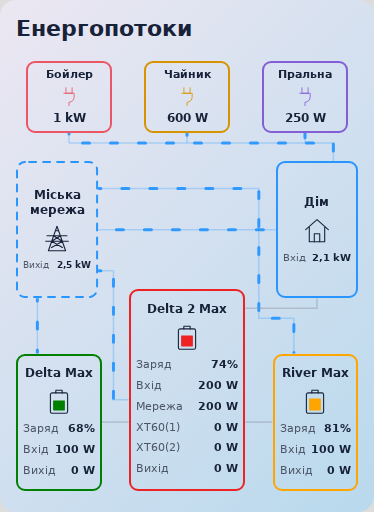
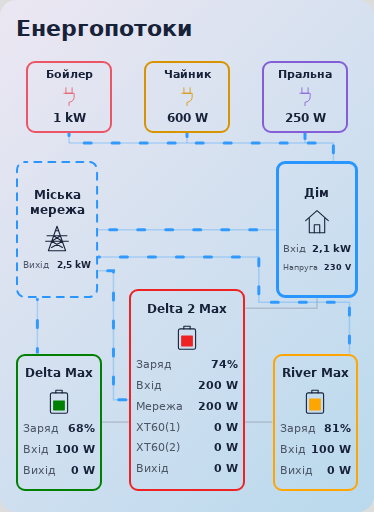
Release 2.0.1: fix charging route and add home voltage
Route station #3 grid charging clear of the home feeder. Use a stationary 3 px Home outline with preserved text space. Add the optional Home voltage selector and a V reading below Input. Verified model, browser and consumer tests at 320–1150 px.

diff --git a/suris-ecoflow-flow-card.js b/suris-ecoflow-flow-card.js
@@ -1,8 +1,8 @@
-/* Suris EcoFlow Flow Card v2.0.0 | MIT | No external dependencies. */
+/* Suris EcoFlow Flow Card v2.0.1 | MIT | No external dependencies. */
 (() => {
   'use strict';
   const TAG = 'suris-ecoflow-flow-card';
-  const VERSION = '2.0.0';
+  const VERSION = '2.0.1';
   const NS = 'http://www.w3.org/2000/svg';
   let cardSequence = 0;
   const DEFAULTS = {
@@ -19,6 +19,8 @@
   };
   Object.assign(TEXT.uk, { consumers: 'Індивідуальні споживачі', consumer: 'Споживач', addConsumer: 'Додати споживача', removeConsumer: 'Видалити', consumerPower: 'Датчик потужності (W / kW)', consumerIcon: 'Іконка', consumerColor: 'Колір рамки споживача', consumerHint: 'Додай до 20 приладів. Зверху видно до шести активних із найбільшою потужністю. Поріг активності береться з налаштувань потоків. Потрібен датчик потужності, а не енергії kWh. Колір застосовується до рамки приладу. Спільні лінії рядів мають колір дому. Спочатку заповнюється нижній ряд. Без одного чи обох рядів висота автоматично зменшується.' });
   Object.assign(TEXT.en, { consumers: 'Individual consumers', consumer: 'Consumer', addConsumer: 'Add consumer', removeConsumer: 'Remove', consumerPower: 'Power sensor (W / kW)', consumerIcon: 'Icon', consumerColor: 'Consumer border color', consumerHint: 'Add up to 20 devices. The six active devices with the highest power appear at the top. Activity uses the flow threshold. Select power sensors, not kWh energy sensors. Each device color applies to its border. Shared row lines use the home color. The lower row fills first. Height shrinks automatically when one or both rows are unused.' });
+  Object.assign(TEXT.uk, { voltage: 'Напруга' });
+  Object.assign(TEXT.en, { voltage: 'Voltage' });
   const t = (config) => TEXT[config?.language] || TEXT.uk;
   const draftConfig = (config = {}) => {
     const result = { ...DEFAULTS, ...config };
@@ -136,7 +138,7 @@
       grid_home: gridAvailable && source === 'grid' && positive(homePower),
       main_home: source === 'main' && positive(homePower)
     };
-    return { main, auxiliary_1, auxiliary_2, grid: { output: p(c.grid.power) }, home: { power: homePower, source, power_origin: powerOrigin }, consumers: (c.consumers || []).map(consumer => ({ ...consumer, entity: consumer.power, power: p(consumer.power) })), flows, flow_power };
+    return { main, auxiliary_1, auxiliary_2, grid: { output: p(c.grid.power) }, home: { power: homePower, voltage: readNumber(states, c.home.voltage), source, power_origin: powerOrigin }, consumers: (c.consumers || []).map(consumer => ({ ...consumer, entity: consumer.power, power: p(consumer.power) })), flows, flow_power };
   };
   // Equal wattage has equal visual speed, regardless of a route's length.
   const flowSpeed = (watts, duration) => Number.isFinite(watts) && watts > 0
@@ -163,6 +165,8 @@
     .grid{left:0;top:37%;width:22%}.home{right:0;top:37%;width:22%}.auxiliary_1{left:0;bottom:1%;width:25%}.auxiliary_2{right:0;bottom:1%;width:25%}.main{left:36%;bottom:1%;width:28%;min-height:max(220px,28cqw)}
     .status{margin-top:8px;color:var(--secondary-text-color,#aaa);font-size:12px;min-height:16px;text-align:center}.status:empty{display:none}
     @container(max-width:520px){.diagram{height:540px}.node{padding:8px 5px;gap:6px;border-radius:9px;min-height:137px}.node h3{font-size:12px}.node .icon{height:29px;margin:0}.row{font-size:11px;gap:2px}.row .value{margin-left:auto}.grid,.home{width:24%;top:38%}.auxiliary_1{left:0;width:25%;bottom:1%}.auxiliary_2{right:0;width:25%;bottom:1%}.main{left:33%;width:34%;min-height:202px}}
+    .node.home{border-width:3px;padding-inline:9px}.row[hidden]{display:none}
+    @container(max-width:520px){.node.home{padding-inline:4px}}
     .node.consumer{height:72px;min-height:72px;padding:4px;gap:3px;border-radius:9px}.consumer h3{font-size:clamp(11px,1.5cqw,13px);line-height:1.2;white-space:nowrap;overflow:hidden;text-overflow:ellipsis;overflow-wrap:normal}.consumer .icon{height:22px;margin:0;color:var(--node-color)}.consumer ha-icon{--mdc-icon-size:22px;width:22px;height:22px}.consumer ha-icon:not(:defined){display:none}.consumer ha-icon:defined+.fallback{display:none}.consumer .fallback{height:22px}.consumer .fallback svg{width:22px}.consumer .value{width:100%;text-align:center;font-size:12px;line-height:16px}.consumer:focus-within{outline:1px solid var(--node-color);outline-offset:2px}
     @media(prefers-reduced-motion:reduce){.flow .flow-dashes{display:none}.flow.active .flow-track{stroke-width:3;opacity:.92}}
   `;
@@ -237,7 +241,10 @@
           border._animation.pause(); this._borders[key] = border;
         }
         if (key === 'grid') this._row(node, 'output', text.output);
-        else if (key === 'home') this._row(node, 'power', text.input);
+        else if (key === 'home') {
+          this._row(node, 'power', text.input); this._row(node, 'voltage', text.voltage);
+          this._values['home.voltage'].parentElement.hidden = !c.home.voltage;
+        }
         else {
           this._row(node, 'soc', text.soc); this._row(node, 'input', text.input);
           if (key === 'main') { this._row(node, 'ac', text.ac); this._row(node, 'solar_1', 'XT60(1)'); this._row(node, 'solar_2', 'XT60(2)'); }
@@ -253,6 +260,7 @@
       this.shadowRoot.querySelector('h2').textContent = c.title;
       for (const key of ['grid', 'auxiliary_1', 'auxiliary_2', 'main']) this.style.setProperty(`--flow-${key}`, c.appearance[`${key}_color`]);
       for (const [key, node] of Object.entries(this._nodes)) node.querySelector('h3').textContent = c[key].name || text[key] || key;
+      this._values['home.voltage'].parentElement.hidden = !c.home.voltage;
     }
     _update() {
       if (!this._config || !this._values) return;
@@ -265,11 +273,12 @@
         const [node, field] = key.split('.'); let value = data[node][field];
         let entity = c[node][field === 'soc' ? 'soc' : `${field}_power`];
         if (node === 'grid') entity = c.grid.power;
-        if (node === 'home') entity = c.home.power;
+        if (node === 'home') entity = field === 'voltage' ? c.home.voltage : c.home.power;
         if (node === 'main' && field === 'ac') entity = c.main.ac_input_power;
         if (node === 'main' && field === 'solar_1') entity = c.main.solar_input_power;
         if (node === 'main' && field === 'solar_2') entity = c.main.solar_input_power_2;
         if (field === 'soc') value = value != null && value >= 0 && value <= 100 ? `${formatter.format(value)}%` : '—';
+        else if (field === 'voltage') value = value != null && value >= 0 ? `${formatter.format(value)} V` : '—';
         else value = powerText(value, c.language);
         button.textContent = value;
         if (entity) button.dataset.entity = entity; else delete button.dataset.entity;
@@ -395,10 +404,10 @@
       const rect = (key) => { const r = (key.startsWith('consumer:') ? this._consumerNodes.get(key.slice(9)) : this._nodes[key]).getBoundingClientRect(); return { x: r.left - base.left, y: r.top - base.top, w: r.width, h: r.height, right: r.right - base.left, bottom: r.bottom - base.top }; };
       const g = rect('grid'), a = rect('auxiliary_1'), b = rect('auxiliary_2'), m = rect('main'), h = rect('home');
       const midY = g.y + g.h / 2, rightCorridor = (m.right + b.x) / 2;
-      const homeLane = Math.max(h.bottom + 10, m.y + 12), chargingLane = homeLane + 10;
+      const homeLane = Math.max(h.bottom + 10, m.y + 12), chargingLane = homeLane - 6;
       const routes = {
         grid_auxiliary_1: `M ${a.x + a.w * .25} ${g.bottom} V ${a.y}`,
-        grid_auxiliary_2: `M ${g.right} ${g.y + g.h * .20} H ${rightCorridor} V ${chargingLane} H ${b.x + b.w * .25} V ${b.y}`,
+        grid_auxiliary_2: `M ${g.right} ${g.y + g.h * .70} H ${rightCorridor} V ${chargingLane} H ${b.x + b.w * .90} V ${b.y}`,
         grid_main: `M ${g.right} ${g.y + g.h * .80} H ${(g.right + m.x) / 2} V ${m.y + m.h * .55} H ${m.x}`,
         grid_home: `M ${g.right} ${midY} H ${h.x}`,
         auxiliary_1_main: `M ${a.right} ${a.y + a.h / 2} H ${m.x}`,
@@ -455,6 +464,8 @@
     uk: { title: 'Заголовок', language: 'Мова', name: 'Назва', power: 'Потужність', input_power: 'Загальна вхідна потужність', output_power: 'Загальна вихідна потужність', soc: 'Заряд батареї (%)', ac_input_power: 'Потужність входу від міської мережі (AC)', solar_input_power: 'Потужність входу XT60(1) (DC)', solar_input_power_2: 'Потужність входу XT60(2) (DC)', grid_charge_power: 'Потужність заряджання від мережі (необов’язково)', transfer_power: 'Потужність передачі на головну EcoFlow (необов’язково)', home_feed_power: 'Потужність виходу на дім (необов’язково)', available_entity: 'Наявність міської мережі', available_state: 'Стан «мережа є»', source_entity: 'Сутність джерела живлення дому', grid_state: 'Стан «дім від міської мережі»', main_state: 'Стан «дім від головної EcoFlow»', grid_color: 'Колір мережі: рамка та потоки', auxiliary_1_color: 'Колір EcoFlow №2: рамка та потік', auxiliary_2_color: 'Колір EcoFlow №3: рамка та потік', solar_color: 'Колір передачі між станціями', main_color: 'Колір головної EcoFlow: рамка та потік', threshold: 'Поріг активного потоку (Вт)', duration: 'Базовий час руху (с)' },
     en: { title: 'Title', language: 'Language', name: 'Name', power: 'Power', input_power: 'Total input power', output_power: 'Total output power', soc: 'Battery charge (%)', ac_input_power: 'City grid input power (AC)', solar_input_power: 'XT60(1) input power (DC)', solar_input_power_2: 'XT60(2) input power (DC)', grid_charge_power: 'Grid charging power (optional)', transfer_power: 'Transfer power to main EcoFlow (optional)', home_feed_power: 'Output power to home (optional)', available_entity: 'Grid availability', available_state: 'Grid available state', source_entity: 'Home power source entity', grid_state: 'State: home powered by grid', main_state: 'State: home powered by main EcoFlow', grid_color: 'Grid border and flow color', auxiliary_1_color: 'EcoFlow #2 border and flow color', auxiliary_2_color: 'EcoFlow #3 border and flow color', solar_color: 'Station transfer color', main_color: 'Main EcoFlow border and flow color', threshold: 'Active flow threshold (W)', duration: 'Base movement time (s)' }
   };
+  Object.assign(FIELD_LABELS.uk, { voltage: 'Напруга дому (необов’язково)' });
+  Object.assign(FIELD_LABELS.en, { voltage: 'Home voltage (optional)' });
   const entityField = (name, power = true) => ({ name, selector: { entity: power ? { domain: 'sensor' } : {} } });
   const textField = (name) => ({ name, selector: { text: {} } });
   const rgbToHsl = hex => {
@@ -573,7 +584,7 @@
         ['auxiliary_1', c.auxiliary_1.name || DEFAULTS.auxiliary_1.name, [...stationSchema, entityField('grid_charge_power'), entityField('transfer_power')], text.auxHint],
         ['auxiliary_2', c.auxiliary_2.name || DEFAULTS.auxiliary_2.name, [...stationSchema, entityField('grid_charge_power'), entityField('transfer_power')], text.auxHint],
         ['main', text.main, [...stationSchema, entityField('ac_input_power'), entityField('solar_input_power'), entityField('solar_input_power_2'), entityField('home_feed_power')], text.mainHint],
-        ['home', text.home, [textField('name'), entityField('power')], `${text.sourceHint} ${text.homeDerived}`],
+        ['home', text.home, [textField('name'), entityField('power'), { name: 'voltage', selector: { entity: { domain: 'sensor', device_class: 'voltage' } } }], `${text.sourceHint} ${text.homeDerived}`],
         ['appearance', c.language === 'en' ? 'Flow appearance' : 'Вигляд потоків', [textField('grid_color'), textField('auxiliary_1_color'), textField('auxiliary_2_color'), textField('main_color'), { name: 'threshold', selector: { number: { min: 0, max: 1000, step: 1, mode: 'box', unit_of_measurement: text.watts } } }, { name: 'duration', selector: { number: { min: .5, max: 20, step: .5, mode: 'box', unit_of_measurement: 's' } } }], `${text.flowHint} ${c.language === 'en' ? 'Open a color below to choose a swatch or mix hue, saturation and brightness. Each source color applies to its border and outgoing flows. Home uses its active source color. Colors: red, green, #ff0000, rgb(255, 0, 0), hsl(120, 100%, 25%). An empty field restores the default color.' : 'Відкрий колір нижче, щоб обрати зразок або змішати відтінок, насиченість і яскравість. Колір джерела застосовується до його рамки та вихідних потоків. Рамка дому має колір активного джерела. Кольори: red, green, #ff0000, rgb(255, 0, 0), hsl(120, 100%, 25%). Порожнє поле повертає типовий колір.'}`]
       ];
       for (const consumer of c.consumers) sections.push([`consumer:${consumer.id}`, consumer.name || text.consumer, [textField('name'), entityField('power'), { name: 'icon', selector: { icon: {} } }, textField('color')], '']);

diff --git a/demo.html b/demo.html
@@ -1,12 +1,12 @@
 <!doctype html>
-<html lang="uk"><head><meta charset="utf-8"><meta name="viewport" content="width=device-width,initial-scale=1"><title>Suris EcoFlow Flow Card 2.0.0 — Demo</title>
+<html lang="uk"><head><meta charset="utf-8"><meta name="viewport" content="width=device-width,initial-scale=1"><title>Suris EcoFlow Flow Card 2.0.1 — Demo</title>
 <style>body{margin:20px auto;padding:0 12px;max-width:1060px;background:#111;color:#eee;font:16px system-ui;--ha-card-background:#1c1c1c;--primary-text-color:#eee;--secondary-text-color:#aaa;--divider-color:#535861}nav{display:flex;gap:8px;flex-wrap:wrap;margin:16px 0}button{background:#222;border:1px solid #666;color:#eee;padding:10px 14px;border-radius:8px;cursor:pointer}button:focus-visible{outline:2px solid #27d9d5}p{color:#aaa;font-size:13px}</style>
 </head><body><nav><button data-mode="main">Дім від EcoFlow</button><button data-mode="aux3">Передача EcoFlow №3</button><button data-mode="grid">Дім від мережі</button><button data-mode="charging">Заряджання від мережі</button><button data-mode="replace">Заміна сильнішим приладом</button><button data-mode="single">Один ряд приладів</button><button data-mode="idle">Прилади вимкнені</button><button data-mode="unknown">Джерело недоступне</button></nav><suris-ecoflow-flow-card></suris-ecoflow-flow-card><p>Демонстраційні показники. Для встановлення відкрий README.md.</p>
 <script src="./suris-ecoflow-flow-card.js"></script><script>
 const card=document.querySelector('suris-ecoflow-flow-card');
 const make=(value,unit='W')=>({state:String(value),attributes:{unit_of_measurement:unit}});
-const states={};
-const config={type:'custom:suris-ecoflow-flow-card',grid:{power:'sensor.grid',available_entity:'binary_sensor.grid',available_state:'on'},auxiliary_1:{soc:'sensor.a_soc',input_power:'sensor.a_in',output_power:'sensor.a_out'},auxiliary_2:{soc:'sensor.b_soc',input_power:'sensor.b_in',output_power:'sensor.b_out'},main:{soc:'sensor.m_soc',input_power:'sensor.m_in',output_power:'sensor.m_out',ac_input_power:'sensor.m_ac',solar_input_power:'sensor.m_pv',solar_input_power_2:'sensor.m_pv2'},home:{},appearance:{auxiliary_2_color:'#ff8800'}};
+const states={'sensor.home_voltage':make(230,'V')};
+const config={type:'custom:suris-ecoflow-flow-card',grid:{power:'sensor.grid',available_entity:'binary_sensor.grid',available_state:'on'},auxiliary_1:{soc:'sensor.a_soc',input_power:'sensor.a_in',output_power:'sensor.a_out'},auxiliary_2:{soc:'sensor.b_soc',input_power:'sensor.b_in',output_power:'sensor.b_out'},main:{soc:'sensor.m_soc',input_power:'sensor.m_in',output_power:'sensor.m_out',ac_input_power:'sensor.m_ac',solar_input_power:'sensor.m_pv',solar_input_power_2:'sensor.m_pv2'},home:{voltage:'sensor.home_voltage'},appearance:{auxiliary_2_color:'#ff8800'}};
 const devices=[['boiler','Бойлер','mdi:water-boiler','#ff5570',1000],['kettle','Чайник','mdi:kettle','orange',600],['washer','Пральна','mdi:washing-machine','#875aff',250],['fridge','Холодильник','mdi:fridge','#16aebc',120],['lights','Освітлення','mdi:lightbulb','green',80],['sockets','Розетки','mdi:power-socket-eu','#5477dd',50],['oven','Духовка','mdi:stove','#f67530',30]];
 config.consumers=devices.map(([id,name,icon,color])=>({id,name,icon,color,power:`sensor.${id}_power`}));
 card.setConfig(config);

diff --git a/README.md b/README.md
@@ -1,8 +1,8 @@
-# Suris EcoFlow Flow Card 2.0.0
+# Suris EcoFlow Flow Card 2.0.1
 
-[English guide](README_EN.md) · [Завантажити 2.0.0](https://github.com/Suris2009/suris-ecoflow-flow-card/releases/tag/v2.0.0) · [Попередня 0.1.12](https://github.com/Suris2009/suris-ecoflow-flow-card/releases/tag/v0.1.12)
+[English guide](README_EN.md) · [Завантажити 2.0.1](https://github.com/Suris2009/suris-ecoflow-flow-card/releases/tag/v2.0.1) · [Попередня 0.1.12](https://github.com/Suris2009/suris-ecoflow-flow-card/releases/tag/v0.1.12)
 
-**Стабільний випуск 2.0.0.** Оновлення з версії 1 та бет версії 2 зберігає налаштування картки.
+**Стабільний випуск 2.0.1.** Оновлення з версії 1 та бет версії 2 зберігає налаштування картки.
 
 Картка Home Assistant із візуальним редактором сутностей. Міська мережа ліворуч, дім праворуч, головна EcoFlow знизу між двома допоміжними станціями. Зверху — до шести активних індивідуальних споживачів із найбільшою потужністю, без гортання. Висота автоматично зменшується, коли один або обидва ряди не потрібні. Значення потужності містяться у квадратних блоках; на лініях лише рух потоку. Працює локально, без сторонніх бібліотек, CDN та збірки.
 
@@ -40,7 +40,7 @@
 
 1. Відкрий **HACS → ⋮ → Користувацькі репозиторії**.
 2. Додай `https://github.com/Suris2009/suris-ecoflow-flow-card`, тип **Dashboard / Панель огляду** (у старих версіях — **Lovelace / Plugin**).
-3. Знайди **Suris EcoFlow Flow Card** та завантаж **2.0.0**. Якщо картка вже встановлена, відкрий її в HACS і встанови доступне оновлення.
+3. Знайди **Suris EcoFlow Flow Card** та завантаж **2.0.1**. Якщо картка вже встановлена, відкрий її в HACS і встанови доступне оновлення.
 4. Онови сторінку Home Assistant. Якщо ресурс не додано автоматично, додай `/hacsfiles/suris-ecoflow-flow-card/suris-ecoflow-flow-card.js` як **JavaScript module** у ресурсах панелей огляду.
 5. На панелі натисни **Редагувати → Додати картку → Suris EcoFlow Flow Card** і вибери сутності у візуальному редакторі.
 
@@ -50,7 +50,7 @@
 
 1. Скопіюй `suris-ecoflow-flow-card.js` до папки `www` у каталозі конфігурації Home Assistant. Через Studio Code Server це зазвичай `/config/www`; в окремих версіях середовища каталог може відображатися як `/homeassistant/www`. Використовуй той каталог, у якому розташований `configuration.yaml`. Можна скористатися Samba або завантаженням файлу в редакторі. Якщо папку `www` щойно створено вперше, перезапусти Home Assistant.
 2. Відкрий **Налаштування → Панелі огляду → ⋮ → Ресурси → Додати ресурс**. Якщо «Ресурси» не видно, увімкни розширений режим у профілі користувача.
-3. URL: `/local/suris-ecoflow-flow-card.js?v=2.0.0`. Тип: **JavaScript module**.
+3. URL: `/local/suris-ecoflow-flow-card.js?v=2.0.1`. Тип: **JavaScript module**.
 4. Онови сторінку Home Assistant. За потреби очисть кеш інтерфейсу в застосунку.
 5. На панелі огляду натисни **Редагувати → Додати картку**, знайди **Suris EcoFlow Flow Card**.
 6. Вибери сутності у візуальному редакторі. YAML не потрібен.
@@ -91,7 +91,7 @@ consumers:
 
 ## Оновлення з версії 1 або бети та повернення назад
 
-Онови ресурс картки до **2.0.0**, потім перезавантаж інтерфейс Home Assistant. Тип `custom:suris-ecoflow-flow-card` не змінюється; назви, сутності, кольори та швидкість станцій зберігаються. Не створюй нову картку і не додавай другий JS-ресурс. Після оновлення з версії 1 додай прилади через редактор. Якщо оновлюєшся з бети версії 2, уже налаштовані прилади також зберігаються.
+Онови ресурс картки до **2.0.1**, потім перезавантаж інтерфейс Home Assistant. Тип `custom:suris-ecoflow-flow-card` не змінюється; назви, сутності, кольори та швидкість станцій зберігаються. Не створюй нову картку і не додавай другий JS-ресурс. Після оновлення з версії 1 додай прилади через редактор. Якщо оновлюєшся з бети версії 2, уже налаштовані прилади також зберігаються.
 
 Щоб повернутися до попередньої версії 1, збережи копію YAML картки й установи **0.1.12** через HACS або заміни той самий JS-файл файлом версії 1. Перезавантаж інтерфейс. Версія 1 не відображає список споживачів; налаштування станцій сумісні.
 
@@ -102,7 +102,9 @@ consumers:
 | Міська мережа | Потужність, датчик наявності мережі та стан «мережа є» |
 | Кожна допоміжна EcoFlow | Заряд, загальний вхід, загальний вихід; необов’язково потужність заряджання від мережі та окрема потужність передачі на головну станцію |
 | Головна EcoFlow | Заряд, загальний вхід, загальний вихід, окремий AC-вхід від мережі, два окремі DC-входи XT60(1) і XT60(2); необов’язково окремий вихід на дім |
-| Дім | Необов’язковий датчик вхідної потужності |
+| Дім | Необов’язкові датчики вхідної потужності та напруги |
+
+Щоб показувати напругу дому, вибери **Напруга дому (необов’язково)** у розділі **Дім** візуального редактора. Рядок **Напруга** з’явиться під **Вхід**, у V. Без вибраного датчика рядок прихований; недоступне значення показується як `—`. Напруга береться з цього датчика, а не обчислюється з даних мережі чи батареї. У YAML: `home.voltage: sensor.home_voltage`.
 
 Джерел живлення дому лише два: міська мережа та головна EcoFlow. Якщо мережа є, дім живиться від мережі. Якщо мережі немає, дім живиться від головної станції. Окрема сутність перемикача дому не потрібна.
 

diff --git a/README_EN.md b/README_EN.md
@@ -1,8 +1,8 @@
-# Suris EcoFlow Flow Card 2.0.0
+# Suris EcoFlow Flow Card 2.0.1
 
-[Українська інструкція](README.md) · [Download 2.0.0](https://github.com/Suris2009/suris-ecoflow-flow-card/releases/tag/v2.0.0) · [Previous 0.1.12](https://github.com/Suris2009/suris-ecoflow-flow-card/releases/tag/v0.1.12)
+[Українська інструкція](README.md) · [Download 2.0.1](https://github.com/Suris2009/suris-ecoflow-flow-card/releases/tag/v2.0.1) · [Previous 0.1.12](https://github.com/Suris2009/suris-ecoflow-flow-card/releases/tag/v0.1.12)
 
-**Stable release 2.0.0.** Upgrading from version 1 or a version 2 beta preserves the card configuration.
+**Stable release 2.0.1.** Upgrading from version 1 or a version 2 beta preserves the card configuration.
 
 A Home Assistant dashboard card with a visual entity editor. City grid is on the left, home on the right, and the main EcoFlow sits between the two auxiliary stations at the bottom. Up to six active home consumers appear above them, without scrolling. The card automatically shrinks when one or both consumer rows are unused. Power readings stay inside the blocks; lines show only moving flow.
 
@@ -28,7 +28,7 @@ As devices switch on or off, the card resizes automatically. A single row moves 
 
 1. Open **HACS → ⋮ → Custom repositories**.
 2. Add `https://github.com/Suris2009/suris-ecoflow-flow-card`, category **Dashboard** (Lovelace / Plugin in older versions).
-3. Download **2.0.0**. If the card is already installed, open its HACS entry and install the available update.
+3. Download **2.0.1**. If the card is already installed, open its HACS entry and install the available update.
 4. Reload the Home Assistant frontend. If HACS did not add the resource, add `/hacsfiles/suris-ecoflow-flow-card/suris-ecoflow-flow-card.js` as a **JavaScript module** in dashboard resources.
 5. Open **Edit dashboard → Add card → Suris EcoFlow Flow Card**. Choose your entities in the visual editor. YAML is optional.
 
@@ -36,9 +36,9 @@ This repository is added as a custom HACS repository; inclusion in the default c
 
 ## Manual installation
 
-1. Download `suris-ecoflow-flow-card.js` from the 2.0.0 release. Put it in the `www` folder beside your Home Assistant `configuration.yaml`, commonly `/config/www`. If you just created `www` for the first time, restart Home Assistant.
+1. Download `suris-ecoflow-flow-card.js` from the 2.0.1 release. Put it in the `www` folder beside your Home Assistant `configuration.yaml`, commonly `/config/www`. If you just created `www` for the first time, restart Home Assistant.
 2. Open **Settings → Dashboards → ⋮ → Resources → Add resource**. Enable Advanced mode in your user profile if Resources is hidden.
-3. URL: `/local/suris-ecoflow-flow-card.js?v=2.0.0`; type: **JavaScript module**.
+3. URL: `/local/suris-ecoflow-flow-card.js?v=2.0.1`; type: **JavaScript module**.
 4. Reload the frontend, then add and configure the card through the visual editor. Clear the frontend cache if the old version remains visible.
 
 ## Configure the stations and home
@@ -48,7 +48,9 @@ This repository is added as a custom HACS repository; inclusion in the default c
 | City grid | Total power, availability entity and its available state (`on` by default) |
 | Each auxiliary EcoFlow | Charge %, total input, total output; optionally separate grid charging and transfer-to-main power |
 | Main EcoFlow | Charge %, total input, total output, separate AC grid input, independent XT60(1) and XT60(2) DC inputs; optionally a dedicated home output |
-| Home | Optional input power sensor; leave empty for automatic calculation |
+| Home | Optional input power sensor; leave empty for automatic calculation. Optional voltage sensor |
+
+To show the house voltage, select **Home voltage (optional)** in the **Home** section of the visual editor. The **Voltage** row appears below **Input**, in V. Without a selected sensor the row stays hidden; an unavailable reading shows `—`. Voltage is read from that sensor, not inferred from the grid or battery. In YAML, set `home.voltage: sensor.home_voltage`.
 
 The two home sources are city grid and main EcoFlow. When the availability entity reports the configured available state, home is supplied by grid; when a binary entity reports its opposite state, home is supplied by the main station. No home switching entity is needed. An unknown, unavailable or unrecognized availability state stops both home supply lines and grid charging flows. Zero power alone is not treated as a grid outage.
 
@@ -114,7 +116,7 @@ All power rows stay on one line. Values below 1000 W use W; values from 1000 W u
 
 ## Upgrade from version 1 or a beta, or roll back
 
-Update the same resource to **2.0.0** and reload the frontend. The card type remains `custom:suris-ecoflow-flow-card`. Existing station entities, names, colors and flow settings are retained. When upgrading from version 1, add consumers in the editor; none are added automatically. Existing consumer settings from version 2 betas are retained. Without active consumers, the card shrinks automatically. Do not add a duplicate resource or recreate the card.
+Update the same resource to **2.0.1** and reload the frontend. The card type remains `custom:suris-ecoflow-flow-card`. Existing station entities, names, colors and flow settings are retained. When upgrading from version 1, add consumers in the editor; none are added automatically. Existing consumer settings from version 2 betas are retained. Without active consumers, the card shrinks automatically. Do not add a duplicate resource or recreate the card.
 
 To roll back, save a copy of the card YAML, install **0.1.12** through HACS or replace the same JS file with the version 1 asset, and reload the frontend. Version 1 does not display consumers; station settings remain compatible.
 

diff --git a/CHANGELOG.md b/CHANGELOG.md
@@ -1,5 +1,12 @@
 # Changelog
 
+## 2.0.1 — Stable
+
+- Route grid charging of station #3 below the grid-to-home line, without crossing it. All lines remain orthogonal.
+- Give Home a slightly thicker, stationary 3 px outline while preserving the inner width for single-line labels and readings.
+- Add an optional Home voltage sensor in the visual editor (`home.voltage`). Its reading appears below Input in V; unconfigured rows are hidden and unavailable values show `—`.
+- Retain existing entities, colors, consumers and settings. Verify routing and text layout at widths from 320 to 1150 px.
+
 ## 2.0.0 — Stable
 
 Promote 2.0.0-beta.3 to the stable version 2 release, retaining its behavior and configuration. Existing version 1 and version 2 beta card settings are preserved.
